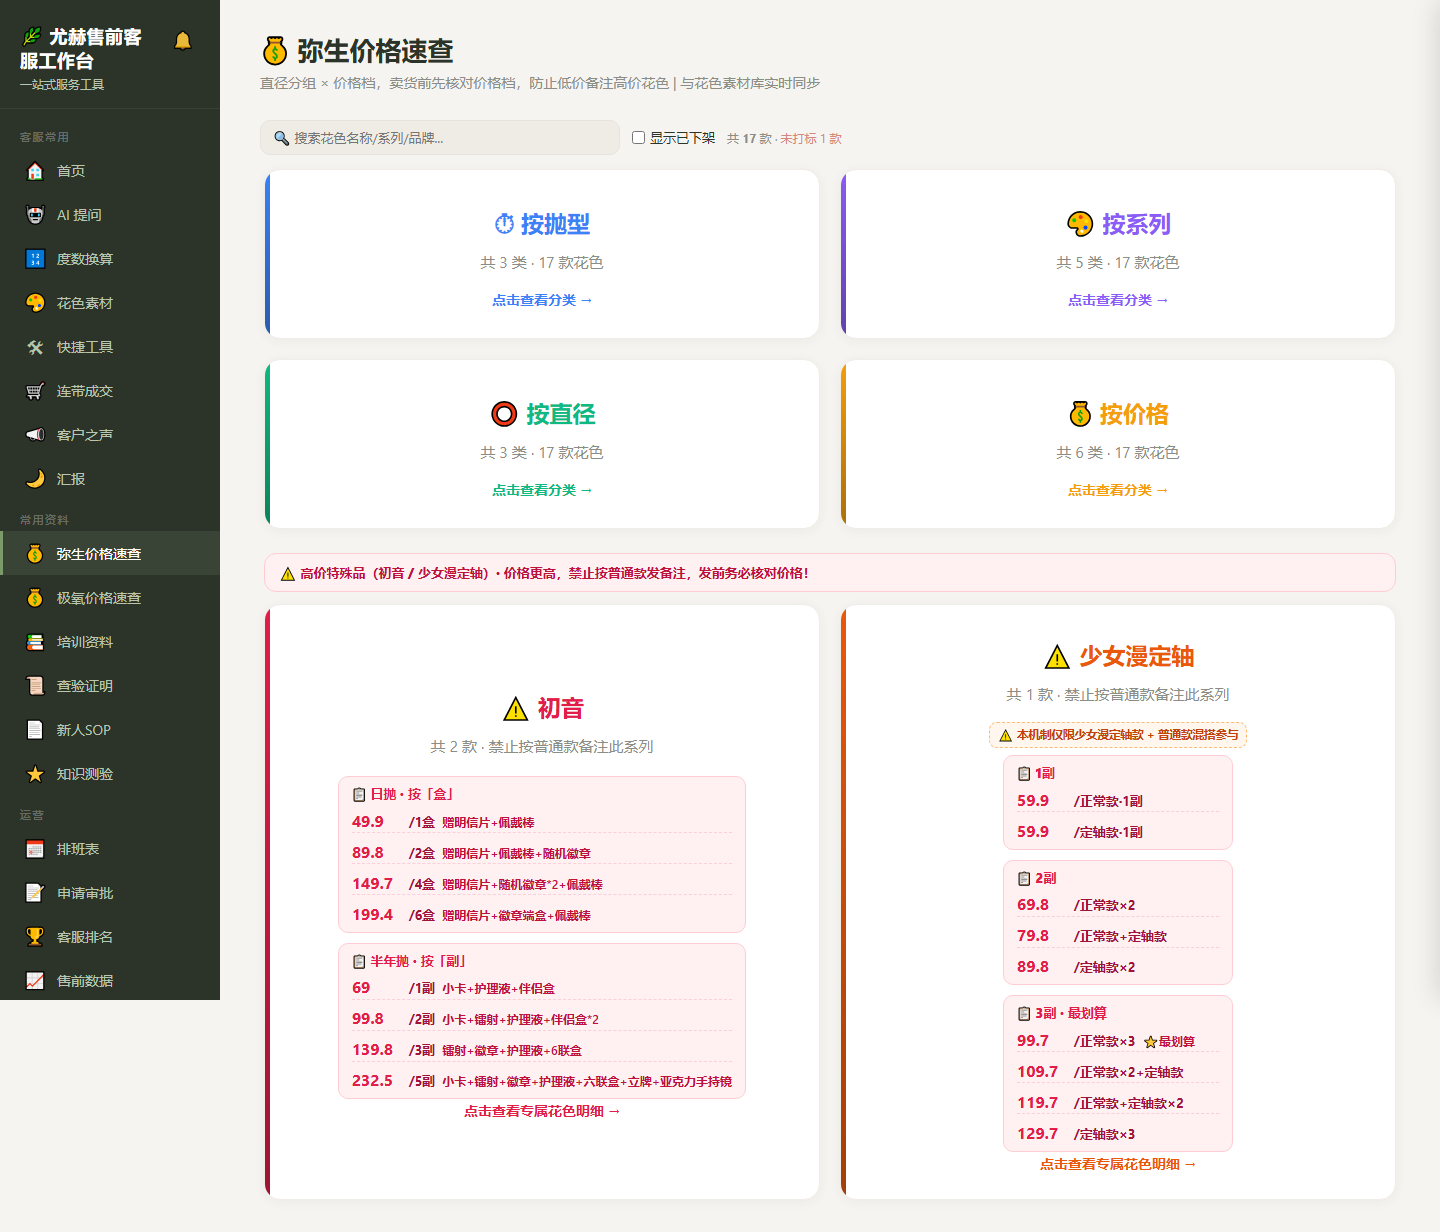
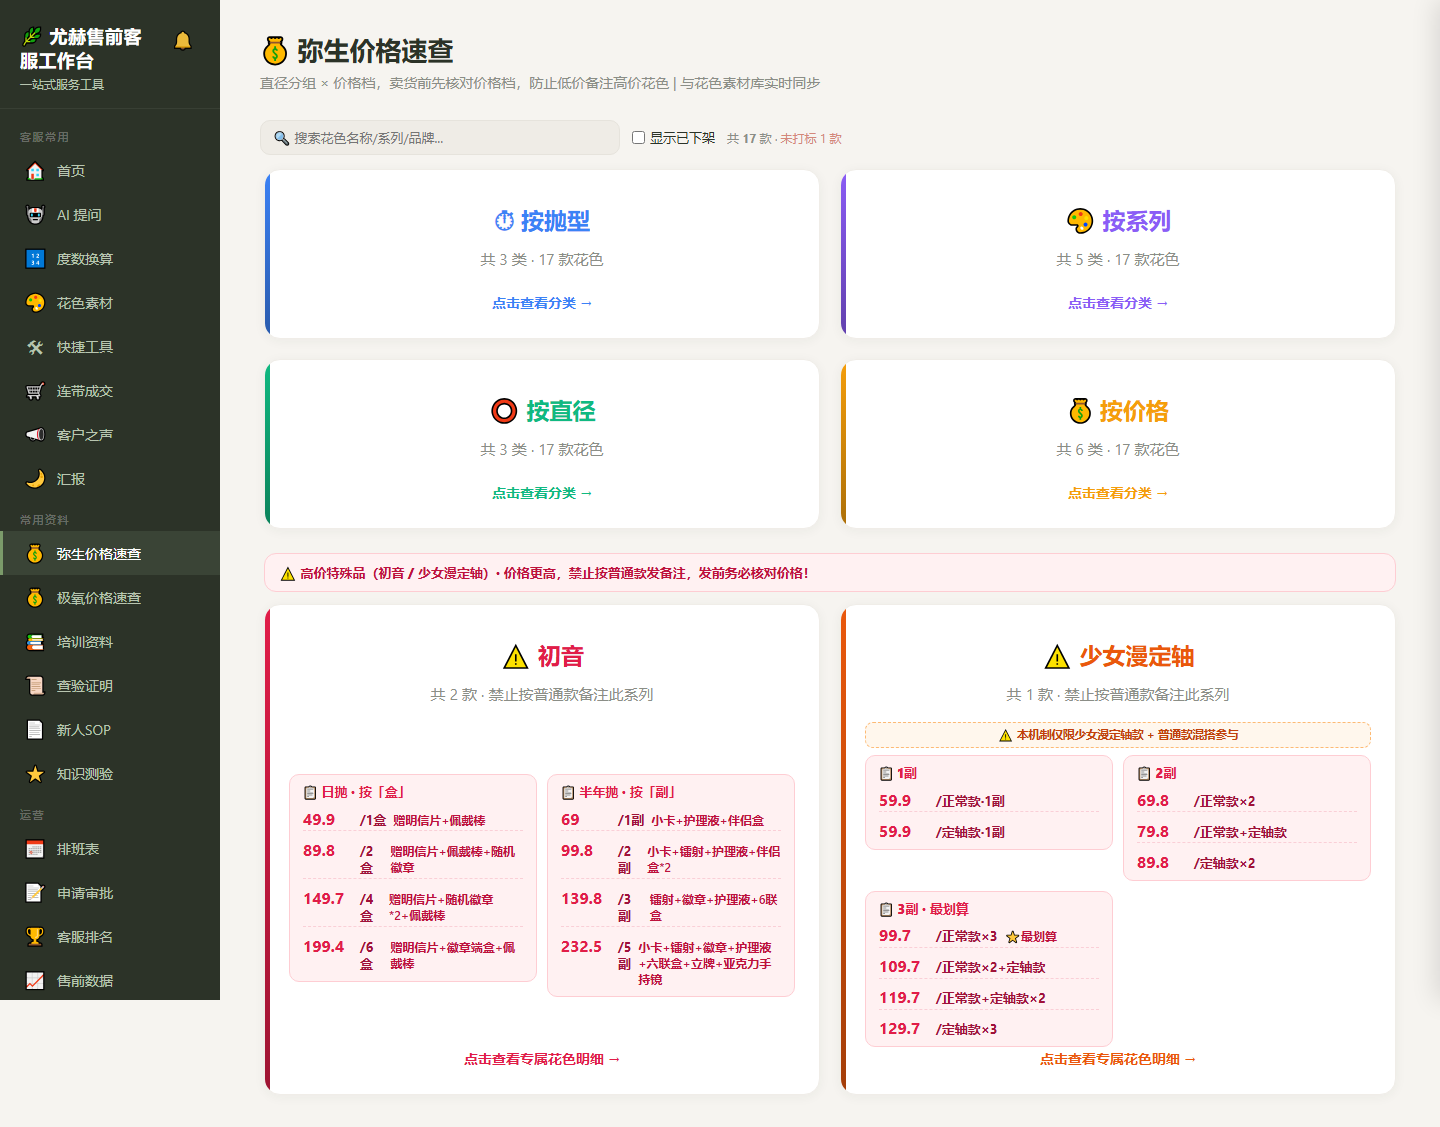
style(patterns): 红卡机制排版对称优化——机制网格撑满卡宽（初音两组并排/少女漫三组两列），机制区垂直居中，「点击查看」钉底对齐

diff --git a/outputs/smoke-pp.js b/outputs/smoke-pp.js
@@ -389,6 +389,14 @@ const wd = setTimeout(()=>{ console.log('WATCHDOG_TIMEOUT'); process.exit(3); },
       && c().includes('49.9') && c().includes('/1盒') && c().includes('赠明信片+佩戴棒') && c().includes('199.4')
       && c().includes('69') && c().includes('/1副') && c().includes('小卡+护理液+伴侣盒') && c().includes('232.5') && c().includes('亚克力手持镜');
     o.spMechRows = document.querySelectorAll('#pp-content .pp-mech-row').length;  // 初音8 + 定轴9 = 17
+    // 红卡机制网格撑满卡内容区（不再窄块居中漂浮），相邻红卡排版对称
+    const card0 = [...document.querySelectorAll('#pp-content .pp-tiercard.l1')].find(c => c.querySelector('.pp-mech-grid'));
+    const mg0 = card0 && card0.querySelector('.pp-mech-grid');
+    if (card0 && mg0) {
+      const cs = getComputedStyle(card0);
+      const contentW = card0.clientWidth - parseFloat(cs.paddingLeft) - parseFloat(cs.paddingRight);
+      o.spMechGridFullOk = mg0.clientWidth >= contentW * 0.98;
+    } else o.spMechGridFullOk = false;
     o.spL1NoChecks = document.querySelectorAll('#pp-content .pp-check').length===0;
     o.spL1NoQuick = document.querySelectorAll('#pp-content .pp-quick').length===0;
     // 定轴红卡：少女漫机制三组（1副/2副/3副，只写数量+价格）+ 参与范围警示
@@ -504,7 +512,7 @@ const wd = setTimeout(()=>{ console.log('WATCHDOG_TIMEOUT'); process.exit(3); },
     spL1Cards:6, spDetailCards:2, spBadgeCount:2, spL2Cards:2,
     spSearchOneCards:5, spAdminChecks:2, spQuickSelects:4, spMechRows:8, spTypeChips:2, spDzMechRows:17, spDzDetailCards:1, noteInputCount:3, spMechGridCols:2
   };
-  const needed = ['treeFieldsOk','l1Info','noCardsLayer1','noCheckbox','noQuick','noPatternNames','no499','batchBarHiddenCs','backBtn','l2Title','seriesInfo','l2NoPatterns','l2NoCheckbox','optGridOk','batchBarHiddenCsL2','backOk','backLabelOk','typeTitleOk','typePatterns','typeGroupsOk','csTierNoCheckbox','batchBarHiddenCsTier','backToL2Ok','diamGroupsByPrice','priceGroupsByDiam','batchBarEl','batchBarHiddenL1','batchBarHiddenL2','batchBarVisibleTier','disc69Card','discVisible','loadMoreOk','oldNavGone','aliasReset','aliasJiyangOk','navActiveJiyang','aliasMiyangOk','navActiveMiyang','aliasBarHiddenL1','quickOk','localSynced','movedOut','batchOk','selClearedAfter','searchOk','editorPriceExists','editorDgExists','editorOptions','filterFnOk','spHeadOk','spRedSubOk','spMechCardOk','spL1NoChecks','spL1NoQuick','spDzMechOk','spDzNoteOk','spBannerOk','spMechDetailOk','spTitleOk','spBadgeOk','spUnitBoxOk','spUnitPairOk','spTypeChipOk','spDzDetailOk','spDzOwnOk','noteEveryCardOk','noteLoadedOk','noteUpsertOk','noteCsViewOk','spBackLabelOk','spBatchHiddenCs','spL2CountOk','spBackToL1Ok','spZoneGoneOnSearch','spSearchOneOk','spAdminBarOk','spMechGridWrapOk','spMechGridOk','noteGuardTaExists','noteGuardNoNav','noteGuardNavOk','staffResetFnOk','staffResetBtnAdmin','staffResetBtnCs'];
+  const needed = ['treeFieldsOk','l1Info','noCardsLayer1','noCheckbox','noQuick','noPatternNames','no499','batchBarHiddenCs','backBtn','l2Title','seriesInfo','l2NoPatterns','l2NoCheckbox','optGridOk','batchBarHiddenCsL2','backOk','backLabelOk','typeTitleOk','typePatterns','typeGroupsOk','csTierNoCheckbox','batchBarHiddenCsTier','backToL2Ok','diamGroupsByPrice','priceGroupsByDiam','batchBarEl','batchBarHiddenL1','batchBarHiddenL2','batchBarVisibleTier','disc69Card','discVisible','loadMoreOk','oldNavGone','aliasReset','aliasJiyangOk','navActiveJiyang','aliasMiyangOk','navActiveMiyang','aliasBarHiddenL1','quickOk','localSynced','movedOut','batchOk','selClearedAfter','searchOk','editorPriceExists','editorDgExists','editorOptions','filterFnOk','spHeadOk','spRedSubOk','spMechCardOk','spL1NoChecks','spL1NoQuick','spDzMechOk','spDzNoteOk','spBannerOk','spMechDetailOk','spTitleOk','spBadgeOk','spUnitBoxOk','spUnitPairOk','spTypeChipOk','spDzDetailOk','spDzOwnOk','noteEveryCardOk','noteLoadedOk','noteUpsertOk','noteCsViewOk','spBackLabelOk','spBatchHiddenCs','spL2CountOk','spBackToL1Ok','spZoneGoneOnSearch','spSearchOneOk','spAdminBarOk','spMechGridWrapOk','spMechGridOk','spMechGridFullOk','noteGuardTaExists','noteGuardNoNav','noteGuardNavOk','staffResetFnOk','staffResetBtnAdmin','staffResetBtnCs'];
   const numericKeys = Object.keys(numeric);
   const missing = needed.concat(numericKeys).filter(k=>!(k in out));
   const ok = missing.length===0 && needed.every(k=>out[k]===true) && numericKeys.every(k=>out[k]>=numeric[k]);

diff --git a/index.html b/index.html
@@ -748,7 +748,11 @@ body {
 .pp-loadmore-wrap{text-align:center;padding:16px 0 6px}
 /* 第一层：价格档大卡片（点进去才看花色） */
 .pp-dim-title{font-size:15px;font-weight:800;color:var(--text);margin:20px 2px 10px;padding-left:9px;border-left:4px solid var(--primary);line-height:1.3}
-.pp-tiercard.l1{padding:34px 24px 26px;min-height:170px;display:flex;flex-direction:column;align-items:center;justify-content:center;text-align:center;--c:var(--primary)}
+.pp-tiercard.l1{padding:34px 24px 26px;min-height:170px;display:flex;flex-direction:column;align-items:center;justify-content:flex-start;text-align:center;--c:var(--primary)}
+/* 红卡机制排版：机制网格撑满卡宽（多组自动并排/换行），在剩余空间垂直居中；入口行钉底，保证相邻红卡视觉对称 */
+.pp-tiercard.l1 .pp-mech-grid{width:100%;flex:1;align-content:center}
+.pp-tiercard.l1 .pp-mech-note{width:100%;box-sizing:border-box;text-align:center}
+.pp-tiercard.l1 .pp-tiercard-enter{margin-top:auto}
 .pp-tiercard.l1::before{background:linear-gradient(180deg,var(--c),color-mix(in srgb,var(--c) 70%,#000))}
 .pp-tiercard.l1 .pp-tiercard-price{font-size:23px;color:var(--c)}
 .pp-tiercard.l1 .pp-tiercard-sub{font-size:15px;margin:12px 0 18px}
